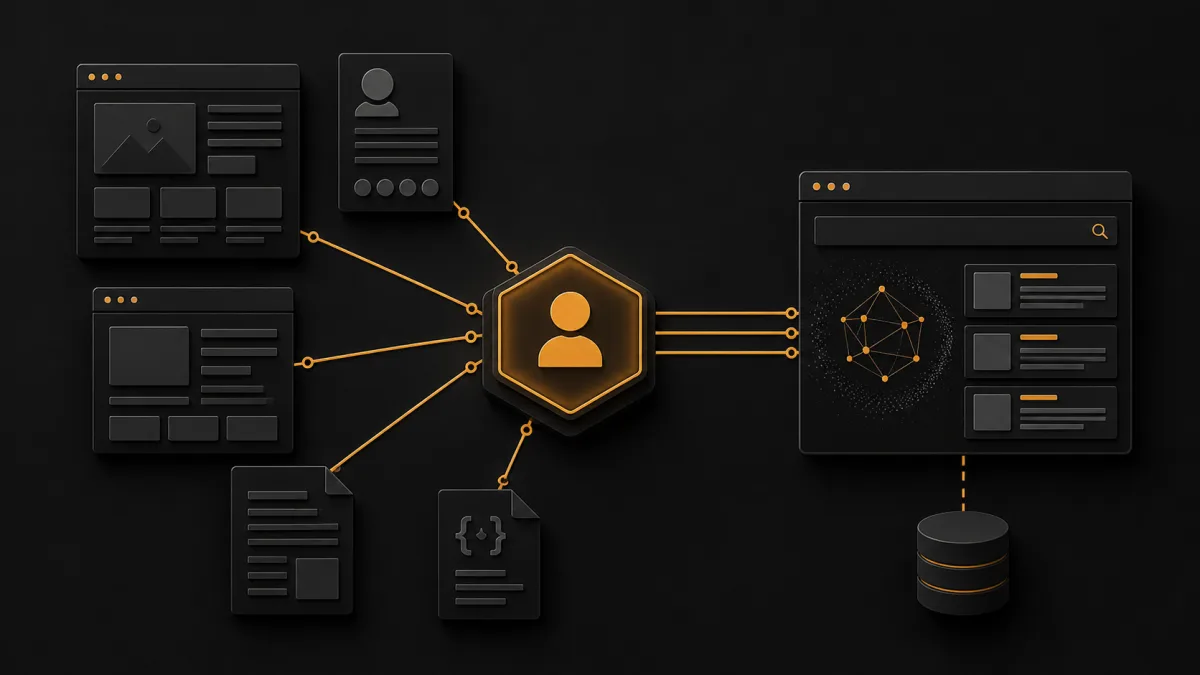
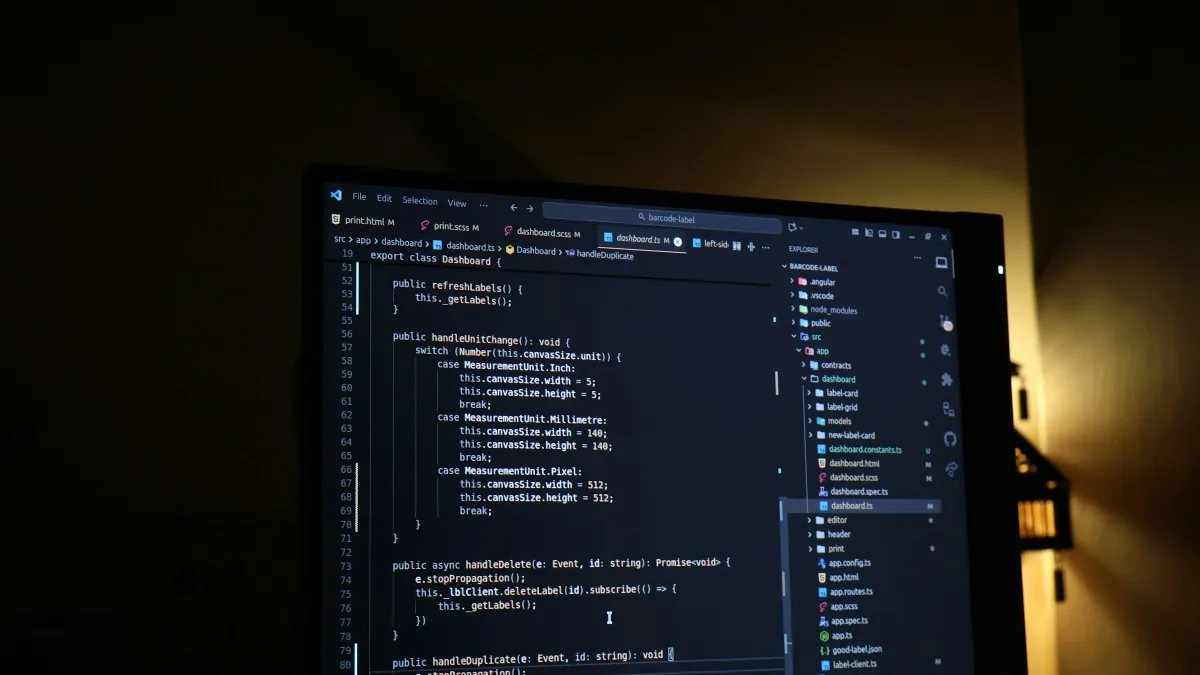
Replace generated hero with Unsplash photo

diff --git a/src/blog/teaching-my-portfolio-to-answer-for-itself.md b/src/blog/teaching-my-portfolio-to-answer-for-itself.md
@@ -7,7 +7,9 @@ layout: post.njk
 thumbnail: /images/blog/teaching-my-portfolio-to-answer-for-itself.webp
 ---
 
-![A central identity node connecting portfolio pages, structured documents, and an AI retrieval interface](/images/blog/teaching-my-portfolio-to-answer-for-itself.webp)
+![Code displayed on a monitor in a dark room with warm yellow light](/images/blog/teaching-my-portfolio-to-answer-for-itself.webp)
+
+Photo by [Harshit Katiyar](https://unsplash.com/@harshitkatiyar?utm_source=levihuff.net&utm_medium=referral) on [Unsplash](https://unsplash.com/photos/computer-screen-displaying-lines-of-code-5sLNGV2EFRM?utm_source=levihuff.net&utm_medium=referral).
 
 My portfolio already contained the facts I wanted people to find. My infrastructure work was on the infrastructure pages. My experience was on the About page. Projects had their own cards, blog posts had metadata, and the resume filled in the rest.
 
